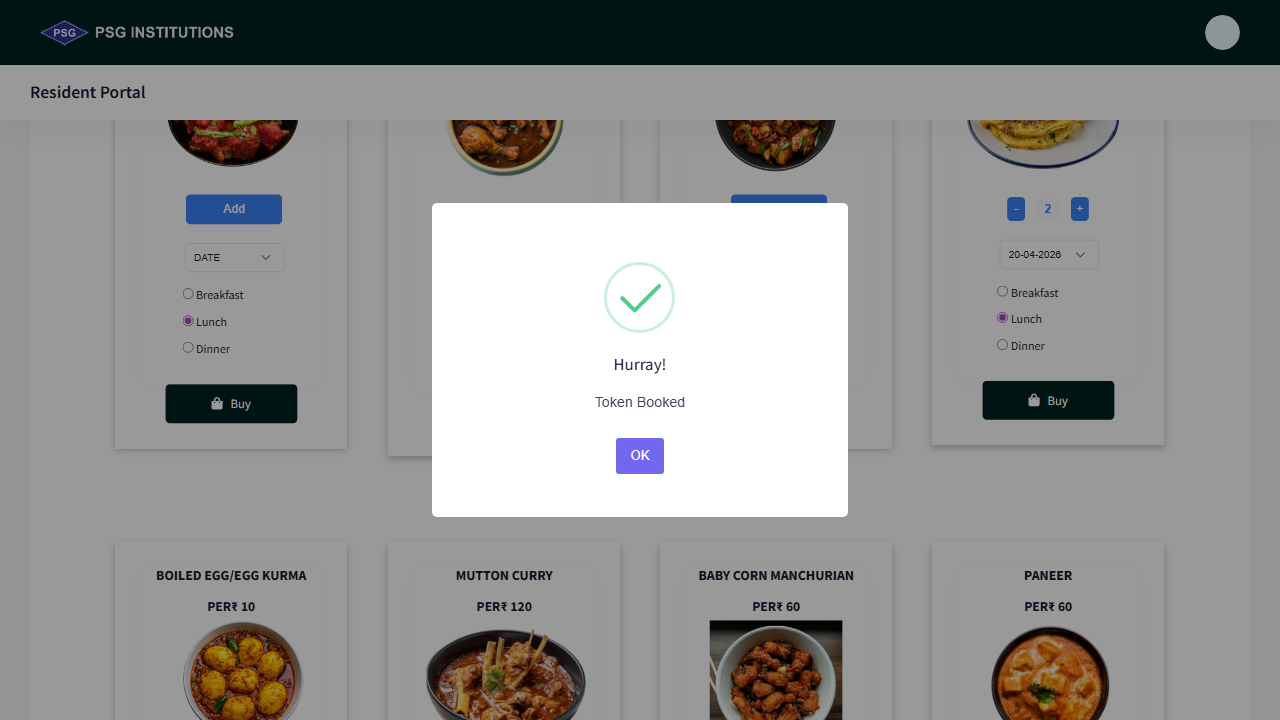
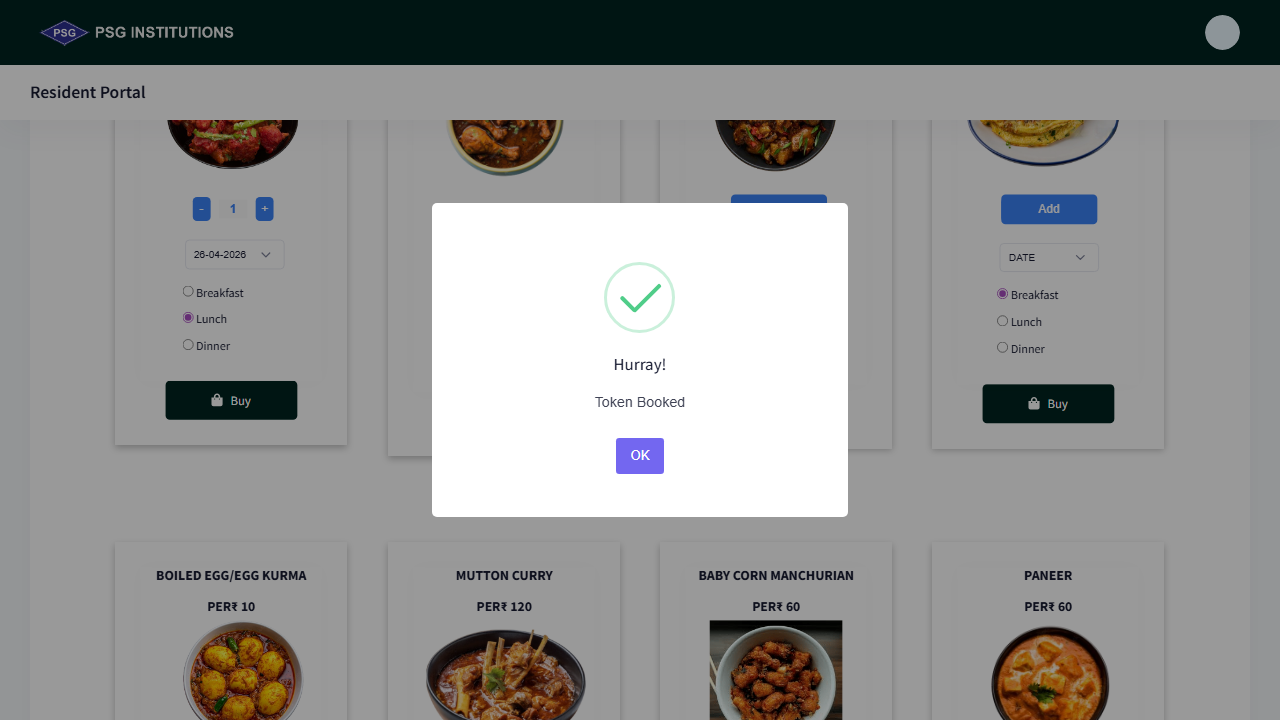
working stage 3

diff --git a/hostel_booker/templates/index.html b/hostel_booker/templates/index.html
@@ -766,7 +766,7 @@
       <form method="POST" action="/login" id="loginForm">
         <div class="form-group">
           <label for="rollno">Roll Number</label>
-          <input type="text" id="rollno" name="rollno" placeholder="e.g. 715525104209" autocomplete="username"
+          <input type="text" id="rollno" name="rollno" placeholder="Enter your roll number" autocomplete="username"
             inputmode="numeric" required />
         </div>
         <div class="form-group">
@@ -997,7 +997,7 @@
           <div class="logo-icon">🍽️</div>
           <div class="logo-text">
             <h1>Hostel Token Booker</h1>
-            <p>PSG iTech · Roll No: 715525104209</p>
+            <p>PSG iTech · Roll No: {{ rollno }}</p>
           </div>
         </div>
         <a href="/logout" class="logout-btn">⏻ Logout</a>

diff --git a/hostel_booker/app.py b/hostel_booker/app.py
@@ -401,19 +401,26 @@ def book():
                 for dish_name, dish_bookings in grouped.items():
                     btn_id = DISH_TO_BUTTON.get(dish_name, "")
 
-                    # One StudentView reload per dish to get fresh card state
-                    print(f"[PLAYWRIGHT] Loading page for dish: {dish_name}")
-                    page.goto(
-                        f"{BASE_URL}/Student/StudentView",
-                        wait_until="domcontentloaded",
-                        timeout=30_000,
-                    )
-                    page.wait_for_timeout(1500)
+                    # Click the Token Booking tab to refresh cards in-place.
+                    # This is ~3s faster than a full page.goto() reload.
+                    # Fall back to a full reload if the tab click fails.
+                    print(f"[PLAYWRIGHT] Refreshing cards for dish: {dish_name}")
                     try:
                         page.locator("a:has-text('Token Booking'), li:has-text('Token Booking')").first.click()
-                        page.wait_for_timeout(1000)
+                        page.wait_for_timeout(800)
                     except Exception as tab_err:
-                        print(f"[PLAYWRIGHT] Tab click failed (non-fatal): {tab_err}")
+                        print(f"[PLAYWRIGHT] Tab click failed, falling back to full reload: {tab_err}")
+                        page.goto(
+                            f"{BASE_URL}/Student/StudentView",
+                            wait_until="domcontentloaded",
+                            timeout=30_000,
+                        )
+                        page.wait_for_timeout(1500)
+                        try:
+                            page.locator("a:has-text('Token Booking'), li:has-text('Token Booking')").first.click()
+                            page.wait_for_timeout(800)
+                        except Exception:
+                            pass
 
                     # One-time diagnostic screenshot (first dish only)
                     if booking_index == 0:
@@ -490,11 +497,11 @@ def book():
                                 }
                             """, [btn_id, date, meal, qty])
 
-                            page.wait_for_timeout(1000)
+                            page.wait_for_timeout(600)
 
                             # Click Buy button by its stable DOM id
                             page.locator(f"#{btn_id}").click()
-                            page.wait_for_timeout(1500)
+                            page.wait_for_timeout(800)
 
                             # Dismiss any inline OK dialog
                             try:
@@ -502,7 +509,7 @@ def book():
                             except Exception:
                                 pass
 
-                            page.wait_for_timeout(500)
+                            page.wait_for_timeout(300)
 
                             # Screenshot after very first booking
                             if booking_index == 0: